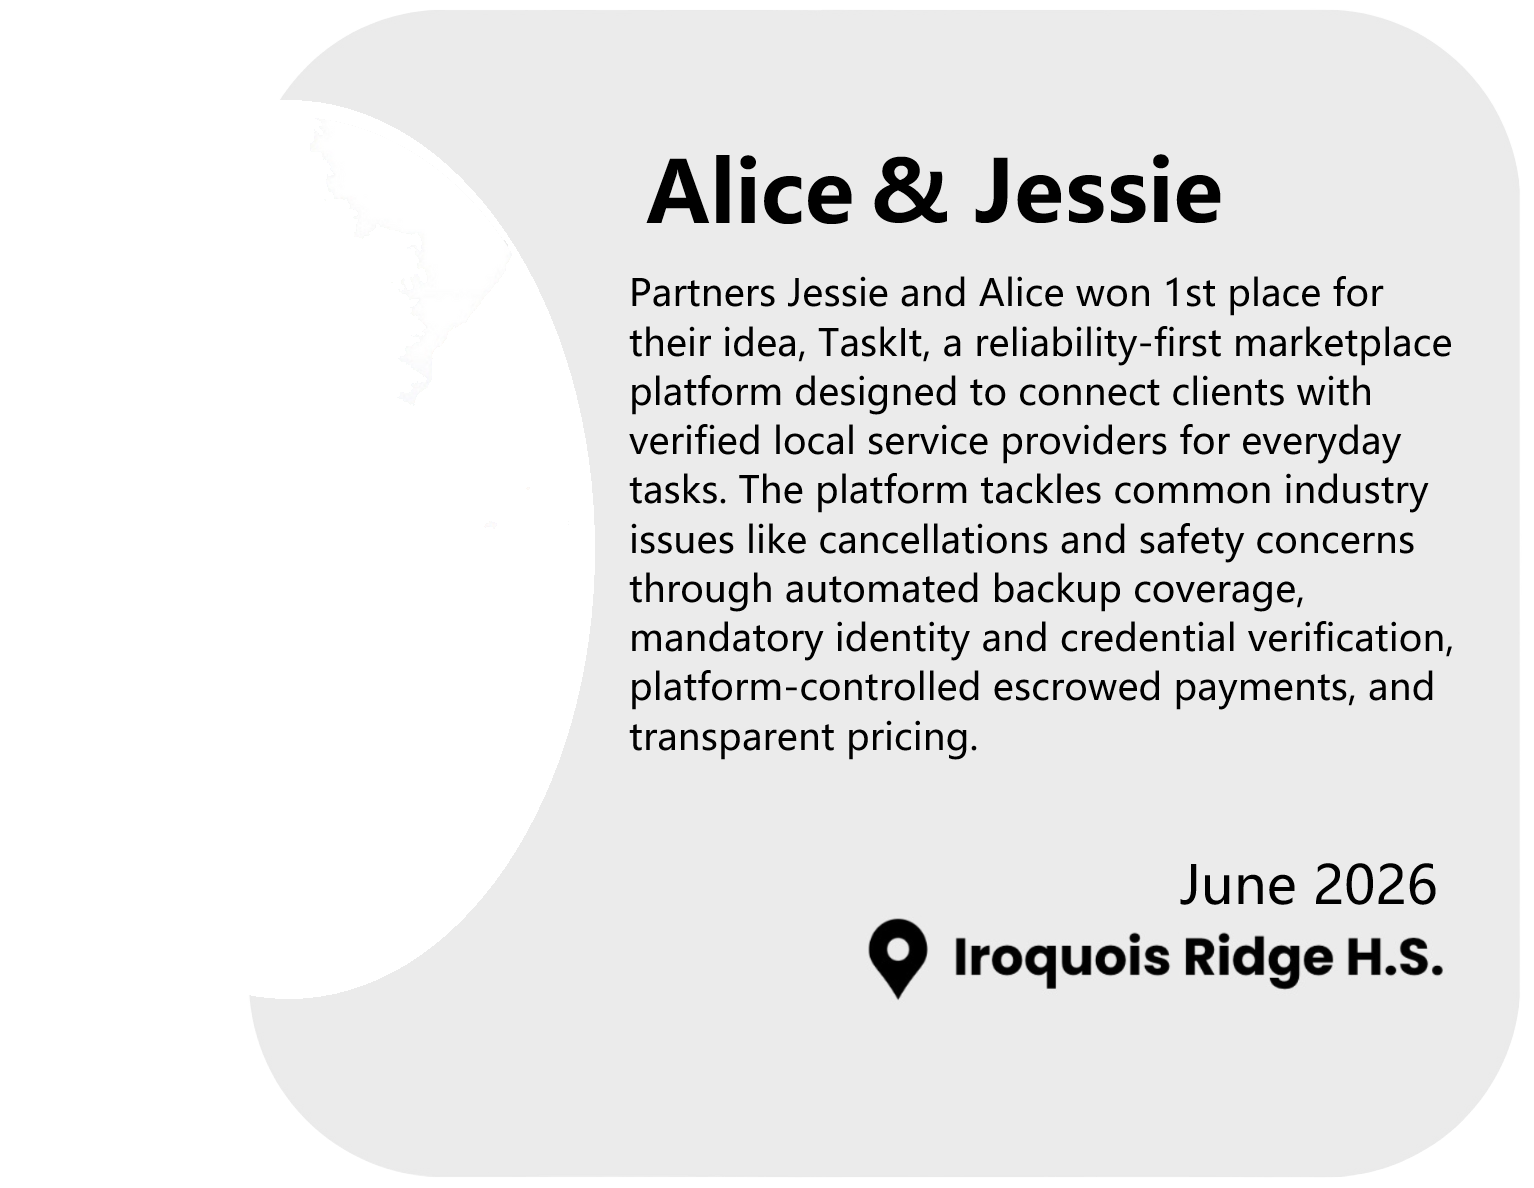
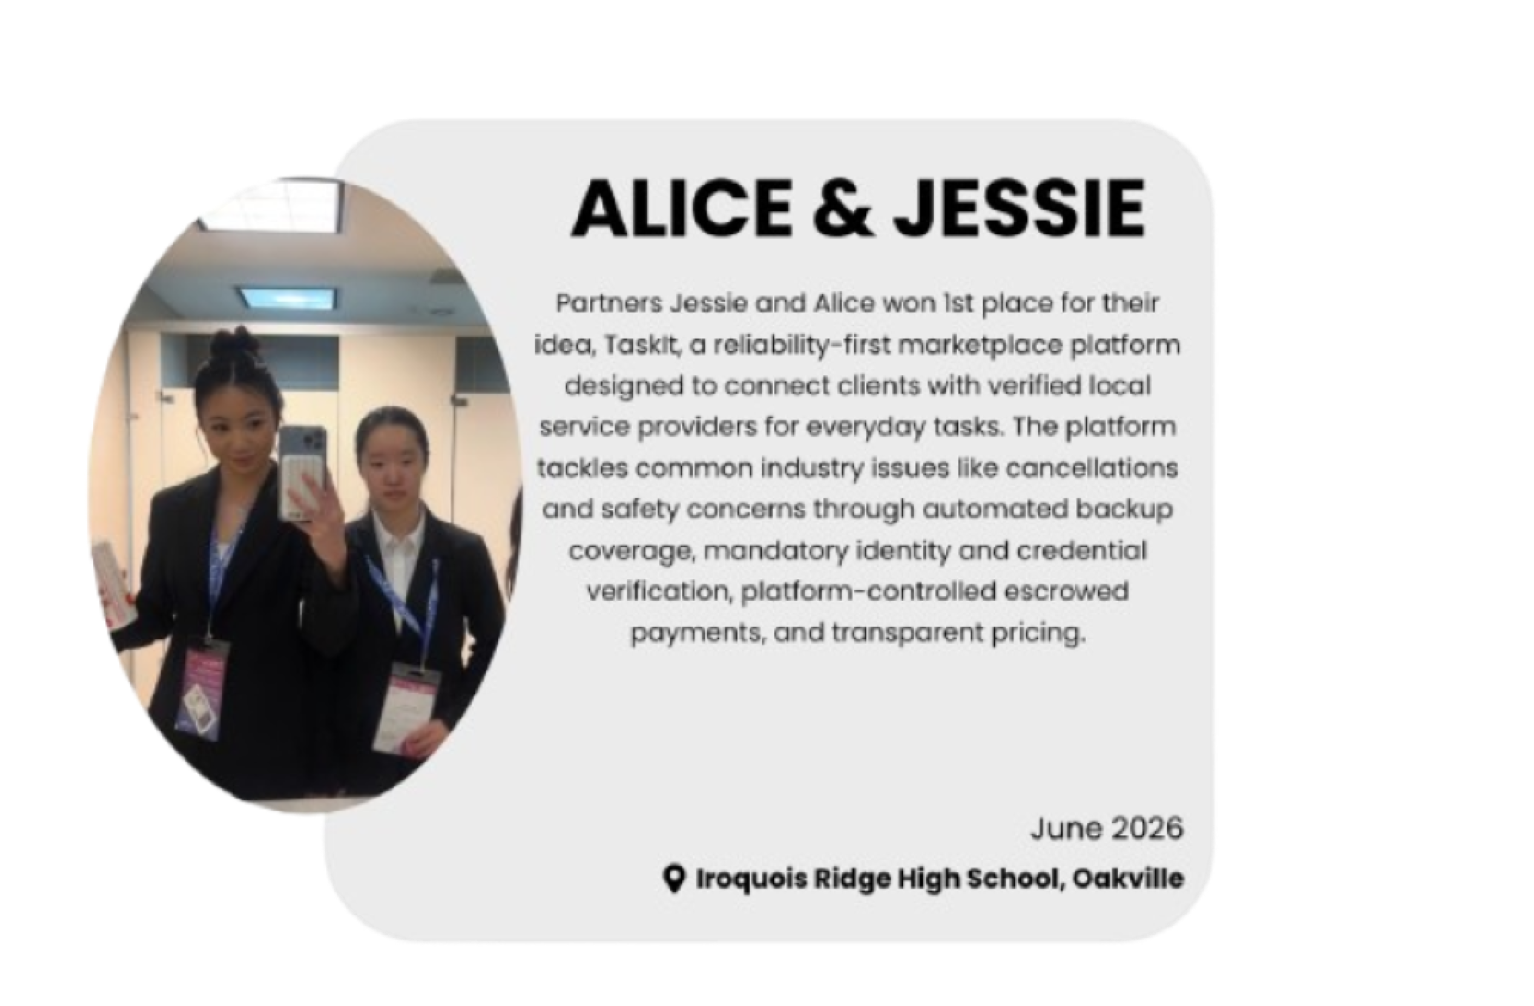
Update

Changed region(s): [[0.0306, 0.1233, 0.9498, 0.832], [0.4289, 0.7087, 0.9498, 0.8936]]

diff --git a/templates/index.html b/templates/index.html
@@ -145,11 +145,17 @@
 
                         <img class="carousel-image" src="{{ url_for('static', filename='images/slide6.png') }}">
 
+                        <img class="carousel-image" src="{{ url_for('static', filename='images/slide7.png') }}">
+
+                        <img class="carousel-image" src="{{ url_for('static', filename='images/slide8.png') }}">
+
+                        <img class="carousel-image" src="{{ url_for('static', filename='images/slide9.png') }}">
+
 
                     </div>
 
                     <div class="carousel-track">
-                        <img class="carousel-image" src="{{ url_for('static', filename='images/slide7.png') }}">
+                    
 
                         <img class="carousel-image" src="{{ url_for('static', filename='images/slide1.png') }}">
 
@@ -162,6 +168,12 @@
                         <img class="carousel-image" src="{{ url_for('static', filename='images/slide5.png') }}">
 
                         <img class="carousel-image" src="{{ url_for('static', filename='images/slide6.png') }}">
+
+                        <img class="carousel-image" src="{{ url_for('static', filename='images/slide7.png') }}">
+
+                        <img class="carousel-image" src="{{ url_for('static', filename='images/slide8.png') }}">
+
+                        <img class="carousel-image" src="{{ url_for('static', filename='images/slide9.png') }}">
 
 
                     </div>

diff --git a/templates/aboutus.html b/templates/aboutus.html
@@ -165,7 +165,7 @@
         <div class="team-grid">
 
             <div class="team-member">
-                <img src="{{ url_for('static', filename='images/Sara.jpg') }}" alt="Sara" class="team-photo">
+                <img src="{{ url_for('static', filename='images/Sara.png') }}" alt="Sara" class="team-photo">
                 <p class="team-name">Sara Afshar</p>
                 <p class="team-name">President</p>
             </div>
@@ -213,14 +213,14 @@
             </div>
 
             <div class="team-member">
-                <img src="{{ url_for('static', filename='images/Maya.jpg') }}" alt="Maya" class="team-photo">
-                <p class="team-name">Maya Sharma</p>
+                <img src="{{ url_for('static', filename='images/Smera.webp') }}" alt="Smera" class="team-photo">
+                <p class="team-name">Smera Sharma</p>
                 <p class="team-name">Director of Training</p>
             </div>
 
             <div class="team-member">
-                <img src="{{ url_for('static', filename='images/Smera.webp') }}" alt="Smera" class="team-photo">
-                <p class="team-name">Smera Sharma</p>
+                <img src="{{ url_for('static', filename='images/Sophia.png') }}" alt="Sophia" class="team-photo">
+                <p class="team-name">Sophia Chen</p>
                 <p class="team-name">Director of Training</p>
             </div>
 
